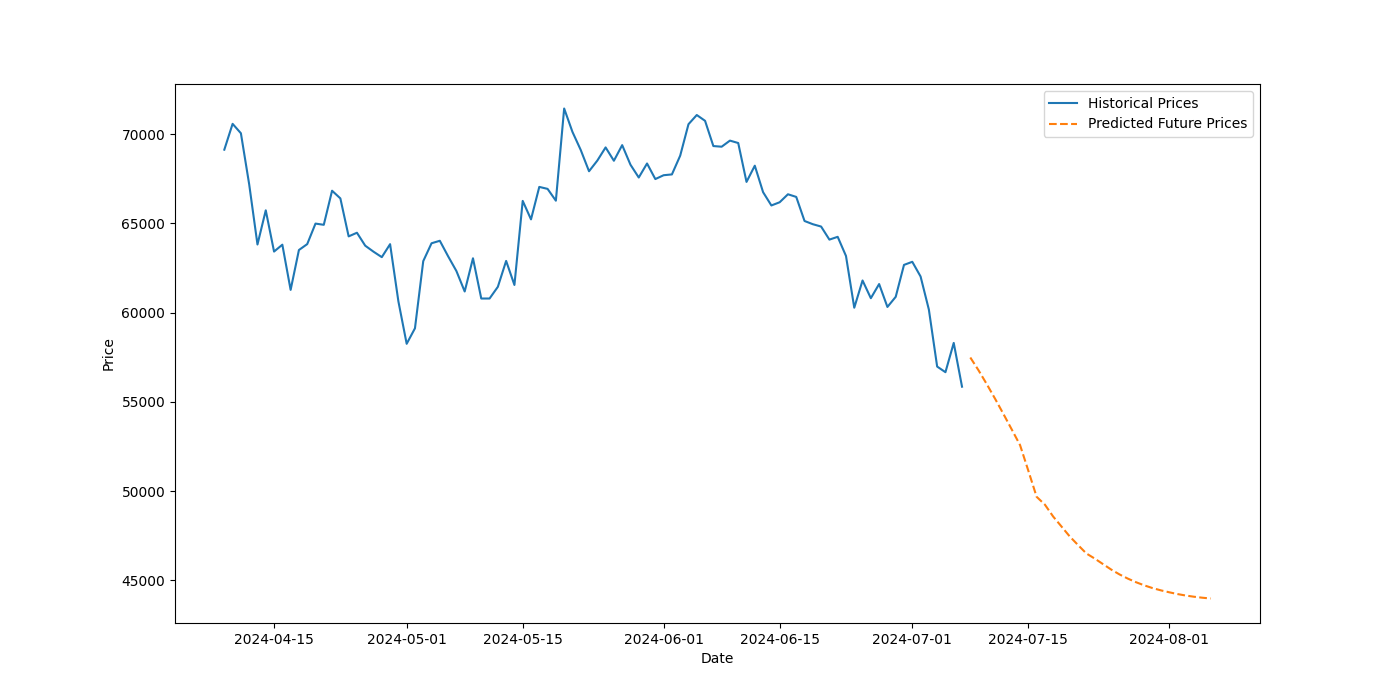
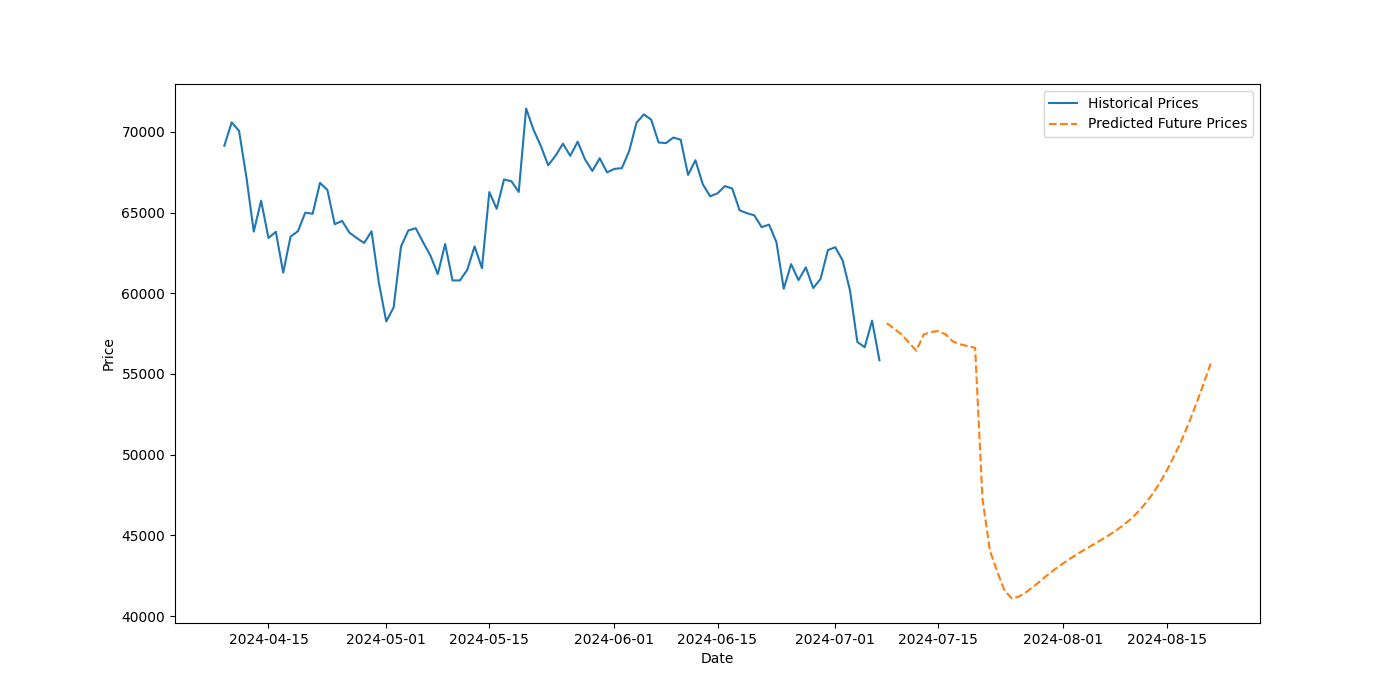
wip

diff --git a/src/data_loader.py b/src/data_loader.py
@@ -2,12 +2,25 @@ import torch
 import yfinance as yf
 import pandas as pd
 import numpy as np
+import json
 from sklearn.preprocessing import StandardScaler
 from torch.utils.data import DataLoader, TensorDataset
 from sklearn.model_selection import train_test_split
+from sklearn.ensemble import RandomForestRegressor
+from sklearn.feature_selection import SelectFromModel
+from boruta import BorutaPy as OriginalBorutaPy
 from feature_engineering import calculate_technical_indicators
 from typing import List, Tuple, Dict
+from logger import setup_logger
 
+logger = setup_logger('data_loader_logger')
+
+class BorutaPy(OriginalBorutaPy):
+    def _fit(self, X, y):
+        n_feat = X.shape[1]
+        dec_reg = np.zeros(n_feat, dtype=int)
+        iter_count = 0
+        return super()._fit(X, y)
 
 def get_data(_ticker: str, start: str, end: str, windows: Dict[str, int]) -> pd.DataFrame:
     historical_data = yf.download(_ticker, start=start, end=end)
@@ -18,8 +31,9 @@ def get_data(_ticker: str, start: str, end: str, windows: Dict[str, int]) -> pd.
 
 def preprocess_data(historical_data: pd.DataFrame, target: str, look_back: int = 60,
                     look_forward: int = 30, features: List[str] = None) -> Tuple[np.ndarray, np.ndarray, StandardScaler, List[str]]:
-    """Preprocess the data for model training.
-
+    """
+    Preprocess the historical stock data for training the model.
+    
     Args:
         historical_data (pd.DataFrame): The historical stock data.
         target (str): The target feature to predict.
@@ -30,6 +44,7 @@ def preprocess_data(historical_data: pd.DataFrame, target: str, look_back: int =
     Returns:
         tuple: Processed input features (X), target values (y), and the scaler used for normalization.
     """
+    logger.info("Starting preprocessing of data")
     for feature in features:
         if feature not in historical_data.columns:
             raise ValueError(f"Feature {feature} is not in the historical data.")
@@ -38,7 +53,7 @@ def preprocess_data(historical_data: pd.DataFrame, target: str, look_back: int =
     _scaler = StandardScaler()
     columns = [target] + [feature for feature in features if feature != target]
     scaled_data = _scaler.fit_transform(historical_data[columns])
-
+    
     _X, _y = [], []
     for i in range(look_back, len(scaled_data) - look_forward):
         _X.append(scaled_data[i - look_back:i])
@@ -47,7 +62,26 @@ def preprocess_data(historical_data: pd.DataFrame, target: str, look_back: int =
     _X = np.array(_X)
     _y = np.array(_y)
 
-    return _X, _y, _scaler, columns
+    _X_reshaped = _X.reshape(_X.shape[0], -1)
+    forest = RandomForestRegressor(n_estimators=100, random_state=42)
+
+    # Define custom data types for numpy
+    np.int = np.int32
+    np.float = np.float64
+    np.bool = np.bool_
+
+    logger.info("Starting feature selection using BorutaPy")
+    boruta = BorutaPy(forest, n_estimators='auto', random_state=42)
+    boruta.fit(_X_reshaped, _y)
+
+    selected_features_indices = boruta.support_
+    _X_selected = _X_reshaped[:, selected_features_indices]
+    _X_selected = _X_selected.reshape(_X.shape[0], look_back, -1) 
+
+    selected_features = np.array(columns)[1:][selected_features_indices].tolist()
+    
+    logger.info(f"Selected features: {selected_features}")
+    return _X_selected, _y, _scaler, selected_features
 
 
 def split_data(_x: np.ndarray, _y: np.ndarray, batch_size: int,test_size: float = 0.15) -> tuple[DataLoader, DataLoader]:

diff --git a/src/feature_engineering.py b/src/feature_engineering.py
@@ -1,7 +1,8 @@
 import pandas as pd
-from ta.trend import SMAIndicator, EMAIndicator, MACD
+from ta.trend import SMAIndicator, EMAIndicator, MACD, ADXIndicator
 from ta.momentum import RSIIndicator, StochasticOscillator
-from ta.volatility import BollingerBands
+from ta.volatility import BollingerBands, AverageTrueRange
+from ta.volume import OnBalanceVolumeIndicator, MFIIndicator
 
 
 def calculate_technical_indicators(historical_data: pd.DataFrame, windows: dict) -> pd.DataFrame:
@@ -26,6 +27,13 @@ def calculate_technical_indicators(historical_data: pd.DataFrame, windows: dict)
     bollinger = BollingerBands(historical_data['Close'], window=windows.get('Bollinger', 20))
     historical_data['Bollinger_High'] = bollinger.bollinger_hband()
     historical_data['Bollinger_Low'] = bollinger.bollinger_lband()
+    historical_data['ATR'] = AverageTrueRange(historical_data['High'], historical_data['Low'], historical_data['Close'], 
+                                              window=windows.get('ATR', 14)).average_true_range()
+    historical_data['ADX'] = ADXIndicator(historical_data['High'], historical_data['Low'], historical_data['Close'], 
+                                          window=windows.get('ADX', 14)).adx()
+    historical_data['OBV'] = OnBalanceVolumeIndicator(historical_data['Close'], historical_data['Volume']).on_balance_volume()
+    historical_data['MFI'] = MFIIndicator(historical_data['High'], historical_data['Low'], historical_data['Close'], 
+                                          historical_data['Volume'], window=windows.get('MFI', 14)).money_flow_index()
 
     historical_data = historical_data.dropna()
     return historical_data

diff --git a/src/train.py b/src/train.py
@@ -9,6 +9,7 @@ import time
 from torch.utils.data import DataLoader
 from model import EarlyStopping, PricePredictor
 from sklearn.preprocessing import StandardScaler
+from boruta import BorutaPy
 from data_loader import get_data, preprocess_data, split_data
 from utils import load_json
 from logger import setup_logger
